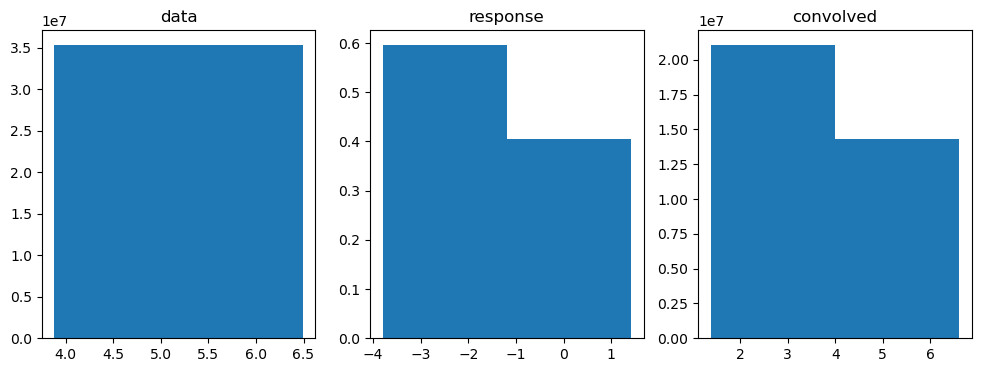
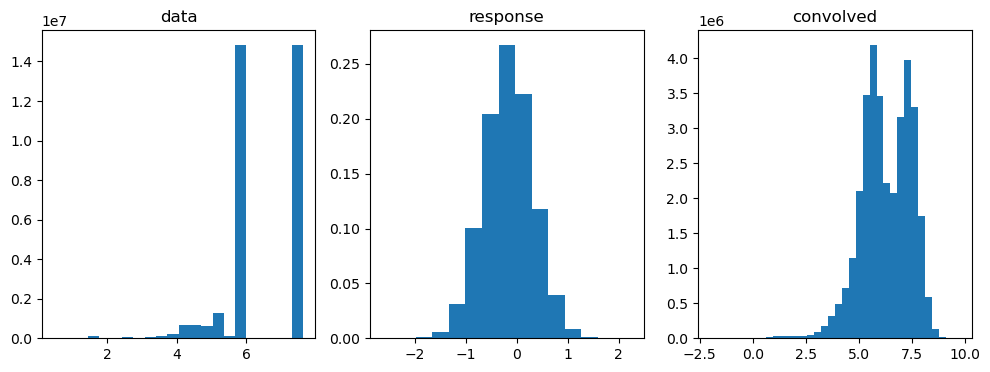
coin works now

diff --git a/pipsMC2/pipsMC3.py b/pipsMC2/pipsMC3.py
@@ -52,7 +52,7 @@ volume=xrange*yrange*zrange
 detectR = 9.77 #radius of circular active region on detector. centered at origin, in xy plane.
 alpha_energy_init=5.5904 #MeV. idk, why not just put it in here
 
-N=int(2**2) #number of decays
+N=int(2**18) #number of decays
 #N=int(4000*volume) #24000 Rn/cc, over 1 day, means 4000 decays/cc
 #assert(N<2e4)
 Normalizer=4000*volume/N
@@ -102,9 +102,9 @@ filter_decays()
 #later get a list of lengths between successful decay points and their intersection points with the detector, to put in SRIM later
 
 successes=[]
-
-for i in range(len(decayPos)):
-    if i%10==0: print(i)
+lendecayPos=len(decayPos)
+for i in range(lendecayPos):
+    if i%int(lendecayPos/100)==0: print("{:.0f}%".format(100*i/lendecayPos))
     O=np.tile(decayPos[i], (len(my_mesh),1))
     D=np.tile(decayDir[i], (len(my_mesh),1))
     v1=my_mesh[:,0]
@@ -137,7 +137,7 @@ successes=np.array(successes, dtype='object')
 #print(successes)
 
 
-print('radon done')
+print('radon done\n')
 
 '''done with radon decays. move to polonium.'''
 
@@ -149,7 +149,7 @@ ionPos=ionPos.astype(np.float16) #i don't need too much precision
 ionDir=ionDir.astype(np.float16)
 #roughly cutting out ions that start outside the cross
 xydistsquared=np.power(ionPos[:,0], 2)+np.power(ionPos[:,1], 2)
-success_indices=np.logical_not(np.logical_and.reduce([ionPos[:,2]>41, xydistsquared>2500]))
+success_indices=np.logical_not(np.logical_and.reduce([ionPos[:,2]>41, xydistsquared>645]))
 ionPos=ionPos[success_indices]
 ionDir=ionDir[success_indices]
 #cutting out stuff in field region
@@ -166,6 +166,7 @@ ionDir=ionDir/np.reshape(np.sqrt(np.einsum('ij...,ij->i...',ionDir,ionDir)), (le
 MFP=112.2e-6 #mean free path for argon at 700mb, in mm
 poVel=180e-3 #polonium ion velocity at room temp, mm/s. works for anything with mass 214u
 dt=MFP/poVel #time between collisions, seconds
+dt=1800
 Po218L=np.log(2)/(3.05*60) #decay constants, inverse seconds
 Pb214L=np.log(2)/(26.8*60)
 Bi214L=np.log(2)/(19.7*60)
@@ -190,18 +191,21 @@ Po214mask=np.zeros(lenionPos, dtype=bool)
 
 #once you're done figuring out what happens in each time period, indent all of it and add a for loop over time right here.
 timesteps=int(24*60*60/dt) #one whole day
-timesteps=5 #start small i guess
+#timesteps=50 #start small i guess
+timesteps=int(3*60*60/dt) #1 hour's simulation took 11 hours
 for j in range(timesteps):
-    if j%1==0: print('timestep=',j)
+    #if j%1==0: print('timestep=',j)
+    if j%int(timesteps/timesteps)==0: print("{:.2f}%".format(100*j/timesteps))
     #at beginning of each time step the ion collided with an argon, so give it a new random direction.
     ionDir=np.random.normal(0,1,(lenionPos,3))
     ionDir=ionDir.astype(np.float16)
     ionDir=ionDir/np.reshape(np.sqrt(np.einsum('ij...,ij->i...',ionDir,ionDir)), (len(ionDir),1))
 
     #for all ions, draw a U(0,1). if this is smaller than lambda*dt, the ion decays.
-    coin=np.random.uniform(lenionPos)
+    coin=np.random.uniform(size=lenionPos)
     coincompare=(Po218L*Po218mask + Pb214L*Pb214mask + Bi214L*Bi214mask + Po214L*Po214mask)*dt
     decaymask=coin<coincompare #list of indices pointing out which ions decay in this time step. based on this, update the species masks
+    print(decaymask.shape, decaymask.sum())
     Po218s=np.append(Po218s, ionPos[np.logical_and(Po218mask, decaymask)]) #jotting down polonium decays
     Po214s=np.append(Po214s, ionPos[np.logical_and(Po214mask, decaymask)])
     #updating species masks:
@@ -213,18 +217,17 @@ for j in range(timesteps):
     Pb214mask=np.logical_or(Pb214mask, np.logical_and(Po218mask, decaymask))
     Po218mask=np.logical_and(Po218mask, np.logical_not(decaymask))
     
-    #update non-stuck ions' positions and see if they stick
+    #update non-stuck ions' positions and see if they stick:
     ionPosNS=ionPos[~stuck]
     ionDirNS=ionDir[~stuck]
+    #ionPosNS+=ionDirNS*MFP #update position based on direction and mean free path
     xydistsquared=np.power(ionPos[:,0], 2)+np.power(ionPos[:,1], 2)
-    inside=np.logical_and.reduce([ionPos[:,2]>41, xydistsquared<2500])
-    ionPosNS=ionPosNS[inside]
-    ionDirNS=ionDirNS[inside]
-    stuck=np.logical_or(stuck, ~inside)
-    #for i in range(np.logical_not(stuck).sum()):
+    outside=np.logical_and.reduce([ionPos[:,2]>41, xydistsquared>564])
+    stuck=np.logical_or(stuck, outside)
+    '''#for i in range(np.logical_not(stuck).sum()):
         #if i%10==0: print(i)
         #this is taking wayyyy too long so I'm just gonna approximate the geometry. sorry.
-        '''O=np.tile(ionPos[np.logical_not(stuck)][i], (len(my_mesh),1)) #if something goes wrong, investigate this. is it in place, is the indexing okay, etc.
+        O=np.tile(ionPos[np.logical_not(stuck)][i], (len(my_mesh),1)) #if something goes wrong, investigate this. is it in place, is the indexing okay, etc.
         D=np.tile(ionDir[np.logical_not(stuck)][i], (len(my_mesh),1))
         v1=my_mesh[:,0]
         v2=my_mesh[:,1]
@@ -241,19 +244,20 @@ for j in range(timesteps):
         #now to see if the intersection is actually within the triangle, and exclude if not
         mask2=np.logical_and.reduce([tuv[:,0]>Epsilon, tuv[:,1]>Epsilon, tuv[:,2]>Epsilon, tuv[:,1]<1+Epsilon, tuv[:,1]+tuv[:,2]<1+Epsilon])
         if np.any(tuv[mask2][:,0]<MFP): #if any of the triangles are less than MFP away from the ion in the direction of its travel, it's gonna hit and stick
-            stuck[i]=True'''
-    ionPosNS+=ionDirNS*MFP #update position based on direction and mean free path
+            stuck[i]=True
+    '''
     #if it ended up inside the field region we gotta get it out cuz it's not allowed in there
     zs=ionPosNS[:,2]
     rhosquareds=np.power(ionPosNS[:,0], 2)+np.power(ionPosNS[:,1], 2)
     fieldionmask=np.logical_and.reduce([zs>5, zs<41.25, rhosquareds<17.5**2])
-    ionPosNS[~fieldionmask]-=2*ionDirNS[~fieldionmask]*MFP
+    #ionPosNS[~fieldionmask]-=2*ionDirNS[~fieldionmask]*MFP
+    
     #end the time loop. we have accumulated a bunch of polonium decays while also letting ions stick when they hit a wall.
 
 
 #now to just see which of the accumulated polonium decays hit the detector
 #yes i'm copying and pasting this code yet again. does anyone have a problem with that?
-
+print(len(Po218s), len(Po214s))
 poPos=np.append(Po218s, Po214s)
 poDir=np.random.normal(0,1,(len(poPos),3))
 poDir=poDir.astype(np.float16)
@@ -263,6 +267,7 @@ po218successes=[]
 po214successes=[]
 i_successes=np.array([])
 for i in range(len(poPos)):
+    if i%int(len(poPos)/100)==0: print("{:.0f}%".format(100*i/len(poPos)))
     O=np.tile(poPos[i], (len(my_mesh),1))
     D=np.tile(poDir[i], (len(my_mesh),1))
     v1=my_mesh[:,0]
@@ -282,6 +287,8 @@ for i in range(len(poPos)):
     if mask2.sum()==2: #this po decay hits the detector and nothing else, so jot it down somewhere. List of O, D, t
         posuccesses.append([list(O[mask][mask2][0]), list(D[mask][mask2][0]), tuv[mask2][:,0][0]])
         np.append(i_successes, i)
+print(len(posuccesses))
+print('poloniums done')
 Po218mask=i_successes<len(Po218s)
 if i_successes.size>0:
     po218successes=posuccesses[Po218mask]
